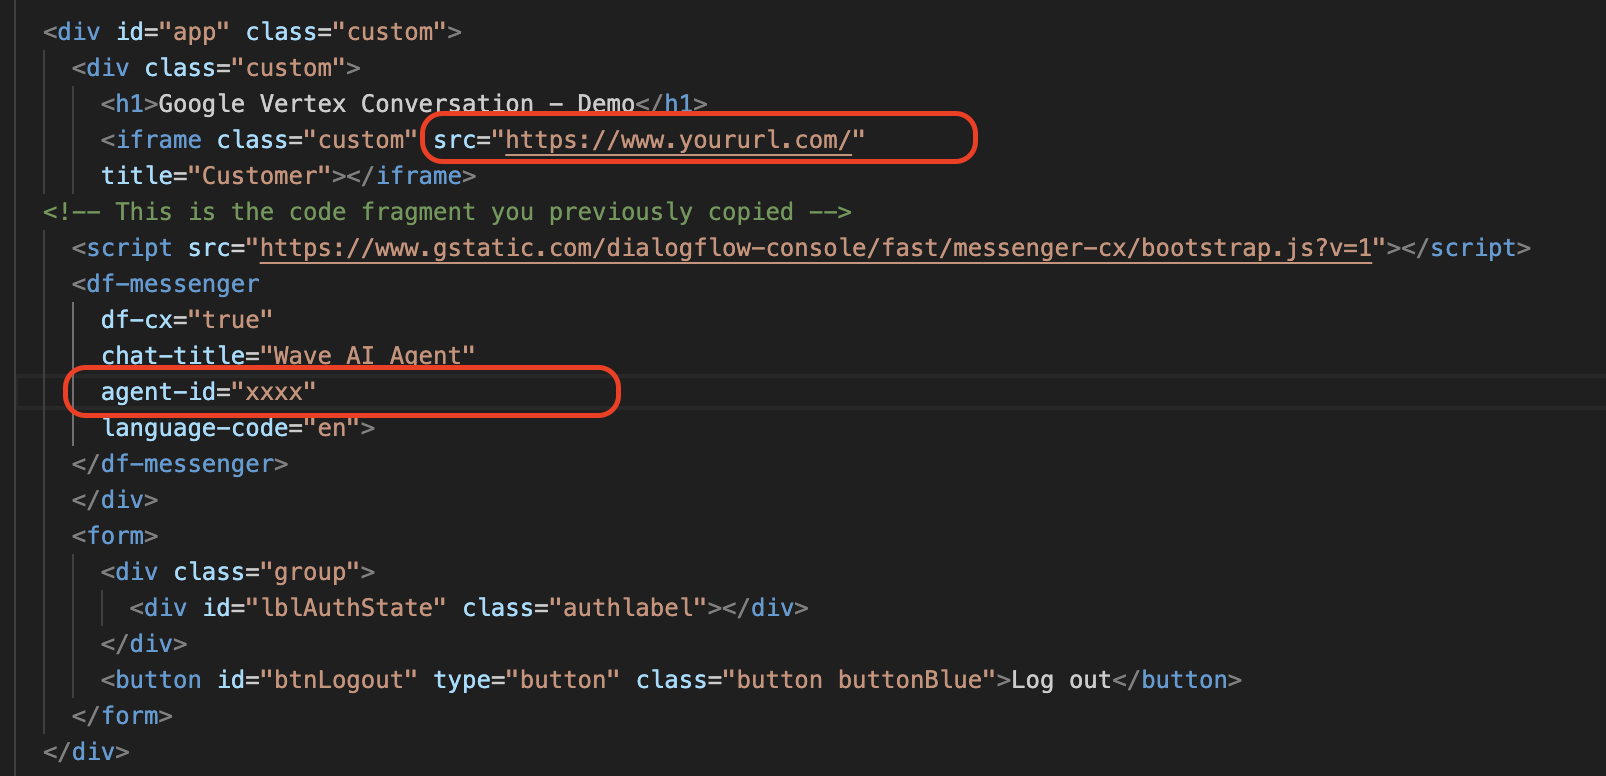
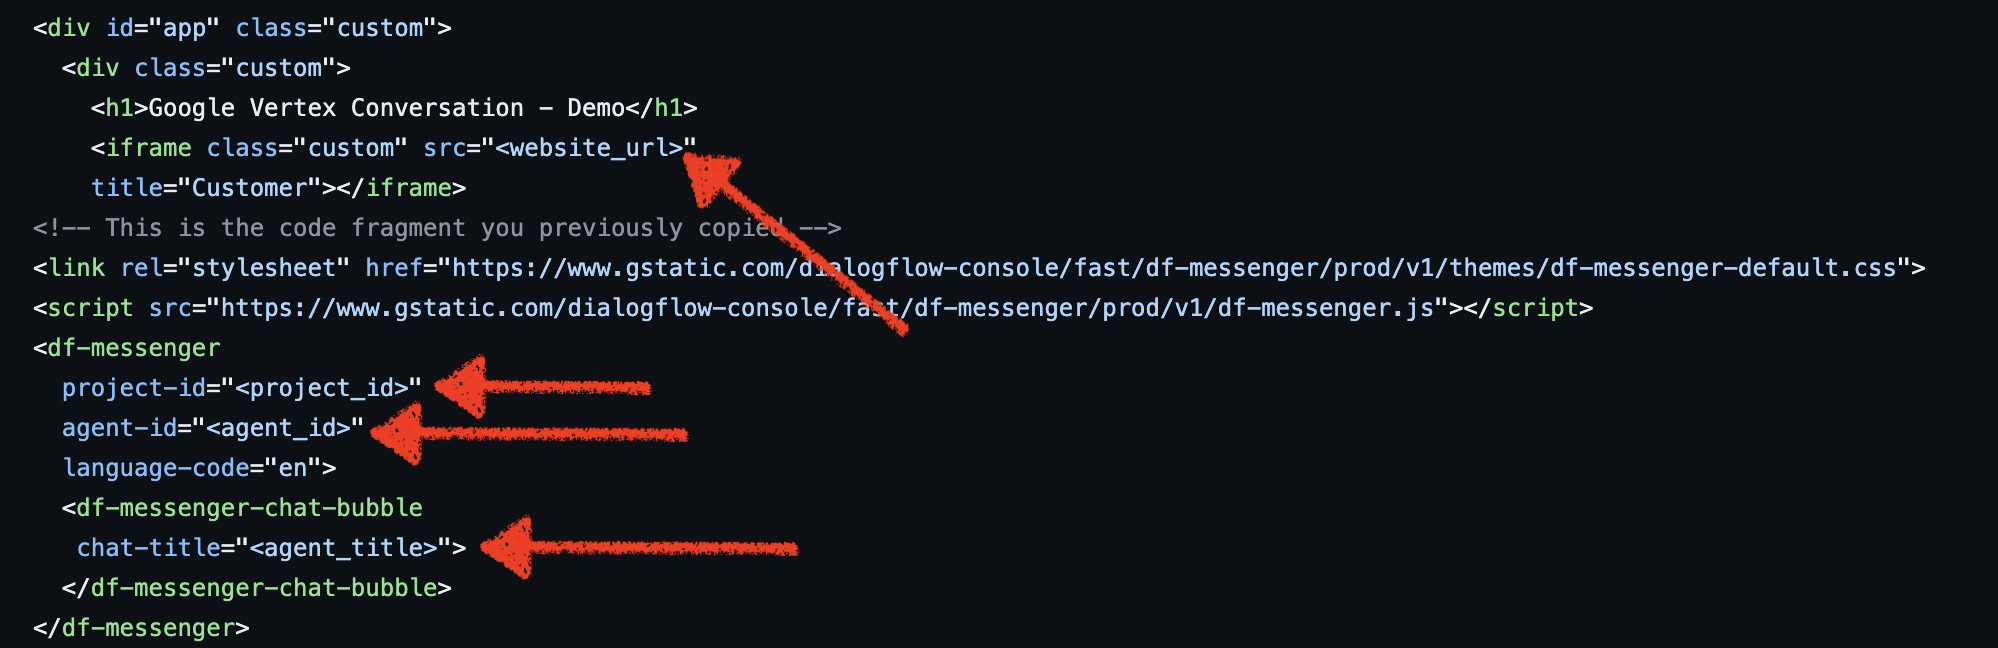
Updated

Changed region(s): [[0.0, 0.0309, 0.9651, 0.9259], [0.0, 0.9568, 0.1245, 0.9877]]

diff --git a/src/index.html b/src/index.html
@@ -34,17 +34,17 @@
   <div id="app" class="custom">
     <div class="custom">
       <h1>Google Vertex Conversation - Demo</h1>
-      <iframe class="custom" src="https://www.geha.com"
+      <iframe class="custom" src="<Update Value>"
       title="Customer"></iframe>
   <!-- This is the code fragment you previously copied -->
   <link rel="stylesheet" href="https://www.gstatic.com/dialogflow-console/fast/df-messenger/prod/v1/themes/df-messenger-default.css">
   <script src="https://www.gstatic.com/dialogflow-console/fast/df-messenger/prod/v1/df-messenger.js"></script>
   <df-messenger
-    project-id="gab-ce-demos-1"
-    agent-id="c94b4ba5-63e3-454c-8a9c-baa3194acf02"
+    project-id="<Update Value>"
+    agent-id="<Update Value>"
     language-code="en">
     <df-messenger-chat-bubble
-     chat-title="Geha Agent">
+     chat-title="<Update Value>">
     </df-messenger-chat-bubble>
   </df-messenger>
   <style>
